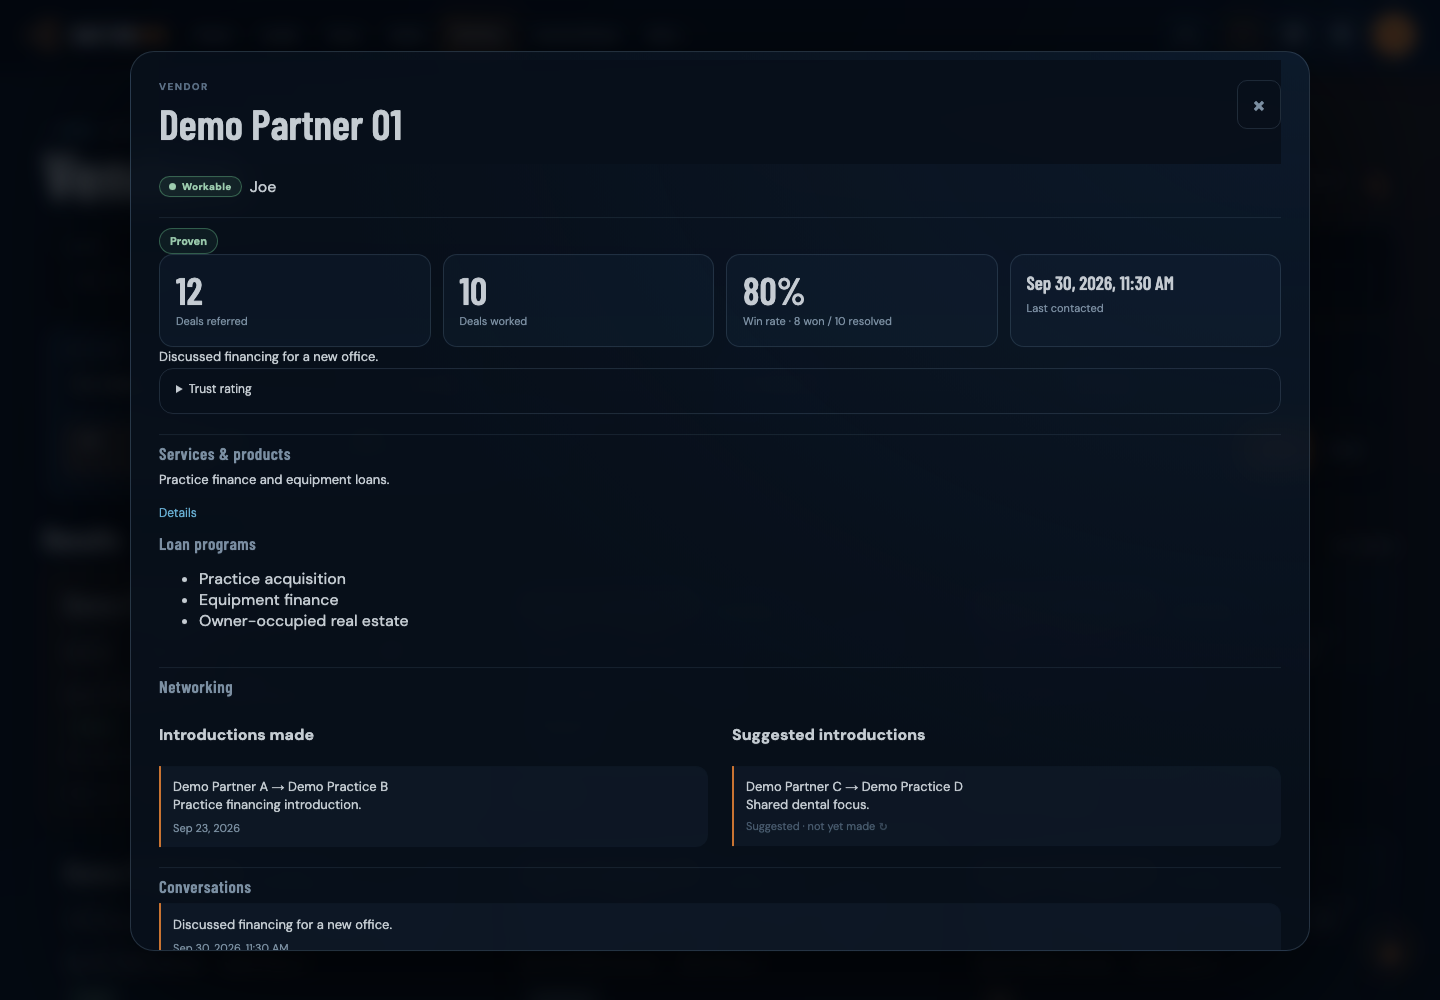
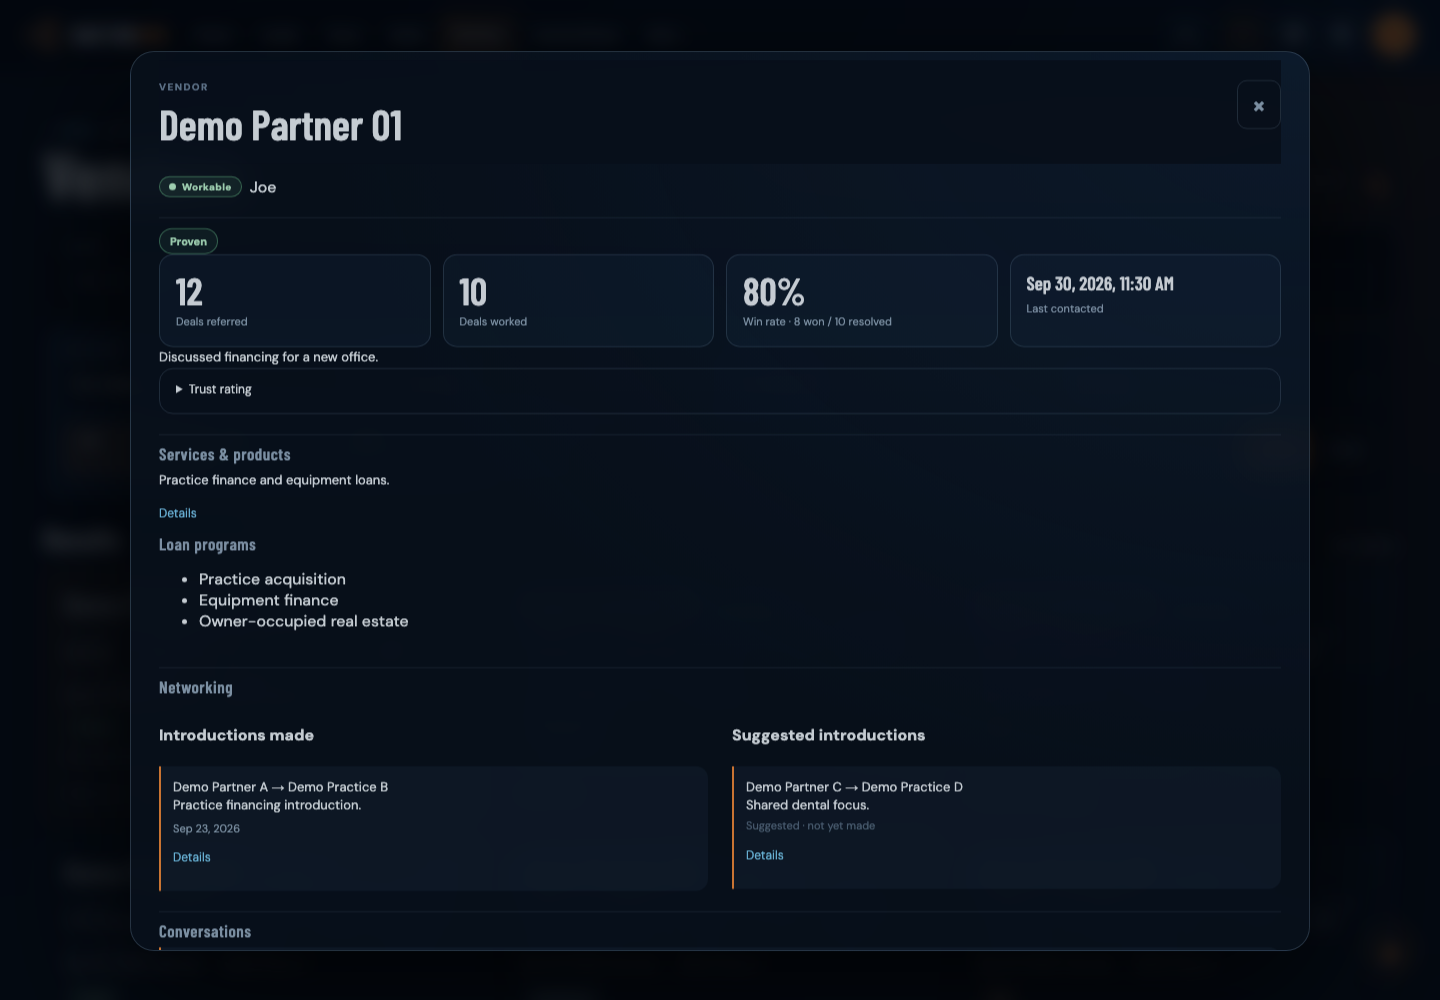
Expand networking notes and pin the vendor contract producer

diff --git a/js/workspace-business.js b/js/workspace-business.js
@@ -320,7 +320,7 @@ function relationshipHtml(record) {
   const intro = stats.introductions || [];
   const list = kind => {
     const items = intro.filter(item => kind === 'made' ? ['intro','intro_received','introduced'].includes(item.kind) : ['can_introduce','intro_requested'].includes(item.kind));
-    return items.length ? `<ol class="network-list">${items.map(item => `<li>${escapeHtml(item.from_name)} → ${escapeHtml(item.to_name)}<p class="note-summary">${escapeHtml(shortNote(item.note))}</p>${item.occurred_at ? `<time>${escapeHtml(formatDay(item.occurred_at))}</time>` : ''}${kind === 'suggested' ? '<span class="observed">Suggested · not yet made</span>' : ''}</li>`).join('')}</ol>` : '<p class="observed">None recorded</p>';
+    return items.length ? `<ol class="network-list">${items.map(item => `<li>${escapeHtml(item.from_name)} → ${escapeHtml(item.to_name)}<p class="note-summary">${escapeHtml(shortNote(item.note))}</p>${item.occurred_at ? `<time>${escapeHtml(formatDay(item.occurred_at))}</time>` : ''}${kind === 'suggested' ? '<span class="observed">Suggested · not yet made</span>' : ''}${item.note ? `<details class="record-details" data-details-key="intro-${escapeHtml(item.id)}"><summary>Details</summary><p class="entry-detail">${escapeHtml(item.note)}</p></details>` : ''}</li>`).join('')}</ol>` : '<p class="observed">None recorded</p>';
   };
   return `<section class="record-section relationship-section" aria-label="Partnership">${tierHtml(stats)}${stats.override ? `<p class="note-summary">${escapeHtml(stats.override.recorded_by)} · ${escapeHtml(formatMoment(stats.override.recorded_at))} · ${escapeHtml(stats.override.reason)}</p>` : ''}<div class="relationship-metrics"><div class="relationship-metric"><strong>${metric(stats.deals_referred)}</strong><span>Deals referred</span></div><div class="relationship-metric"><strong>${metric(stats.deals_worked)}</strong><span>Deals worked</span></div><div class="relationship-metric"><strong>${winRate(stats)}</strong><span>Win rate${stats.win_rate != null ? ` · ${stats.won} won / ${stats.won + stats.lost} resolved` : ''}</span></div><div class="relationship-metric"><strong>${stats.last_contacted_at ? escapeHtml(formatMoment(stats.last_contacted_at)) : '—'}</strong><span>Last contacted</span></div></div><p class="note-summary">${escapeHtml(shortNote(stats.last_contact_note))}</p><details class="trust-editor" data-details-key="trust"><summary>Trust rating</summary><form class="trust-form" id="trustForm"><label>Tier<select name="tier"><option value="">Use computed tier</option>${['Proven','Established','Trial'].map(tier => `<option${tier === stats.override?.tier ? ' selected' : ''}>${tier}</option>`).join('')}</select></label><label>Reason<input name="reason" maxlength="500" value="${escapeHtml(stats.override?.reason || '')}"></label><button class="action primary-action" type="submit"${view.pendingTrust ? ' disabled' : ''}>Save rating</button><p class="trust-status" role="status" id="trustStatus">${view.trustStatus?.id === record.id ? escapeHtml(view.trustStatus.text) : ''}</p></form></details></section><section class="record-section"><h3>Services & products</h3><p class="note-summary">${escapeHtml(shortNote(record.offers) || 'Not recorded')}</p>${record.offers ? `<details class="record-details" data-details-key="offers"><summary>Details</summary><p class="entry-detail">${escapeHtml(record.offers)}</p></details>` : ''}${record.loan_programs?.length ? `<h3>Loan programs</h3><ul>${record.loan_programs.map(program => `<li>${escapeHtml(program)}</li>`).join('')}</ul>` : ''}</section><section class="record-section"><h3>Networking</h3><div class="network-grid"><div><h4>Introductions made</h4>${list('made')}</div><div><h4>Suggested introductions</h4>${list('suggested')}</div></div></section>${stats.recent_entries?.length ? `<section class="record-section"><h3>Conversations</h3><ol class="network-list">${stats.recent_entries.map(entry => `<li><p class="note-summary">${escapeHtml(shortNote(entry.summary))}</p><time>${escapeHtml(formatMoment(entry.when))}</time><details class="record-details" data-details-key="entry-${escapeHtml(entry.id)}"><summary>Details</summary><p class="entry-detail">${escapeHtml(entry.detail || entry.summary)}</p></details></li>`).join('')}</ol></section>` : ''}`;
 }

diff --git a/css/workspace-business.css b/css/workspace-business.css
@@ -195,7 +195,7 @@
 .trust-tier[data-tier="Proven"]{border-color:rgba(121,221,160,.45);color:#b9f2cd;background:rgba(121,221,160,.08)}
 .trust-tier[data-tier="Trial"]{color:#ffd1ab;border-color:rgba(242,138,57,.4);background:rgba(242,138,57,.08)}
 .refresh-icon{border:0;background:transparent;color:var(--orange);font-size:22px;min-width:44px;min-height:44px;cursor:pointer;border-radius:50%}.refresh-icon:hover{background:rgba(242,138,57,.12)}
-.business-hero .observed::after{content:none}
+.business-hero .observed::after,.record-panel .observed::after{content:none}
 .hero-meta{display:flex;flex-direction:row;align-items:center;justify-content:flex-end}.observed{font-size:11px}
 #scrollSentinel{height:2px;margin-top:32px}
 body.record-open{overflow:hidden}
